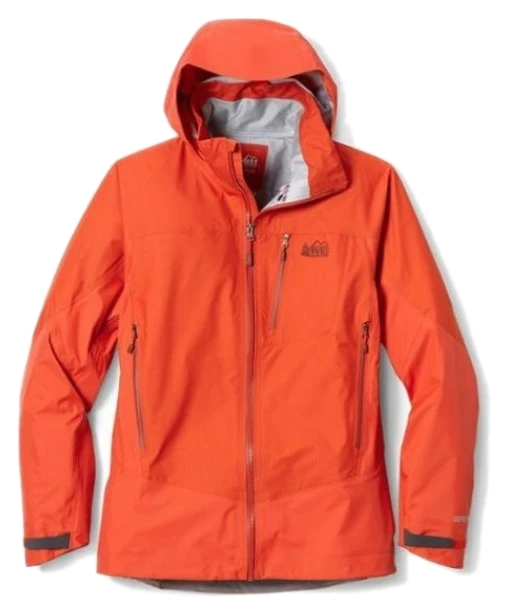
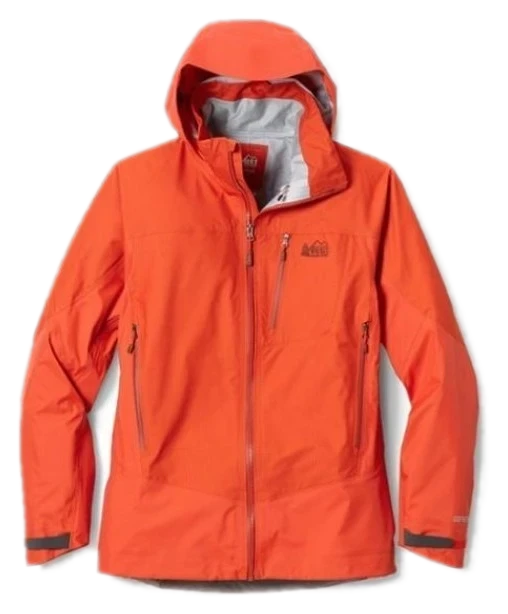
Backpack emoji button, truly uniform button boxes, dark-mode image cleanup
All three top-left buttons are identical fixed-size flex boxes now.
Cleared enclosed white pockets and halo remnants on 7 gear images
(kettle, band, boonie, rain shell, ombraz, sony, thule) so the gear
page works in dark mode without white patches.

diff --git a/map/styles.css b/map/styles.css
@@ -238,52 +238,40 @@ h2 {
   align-items: stretch;
 }
 
-.night-mode-toggle {
+.night-mode-toggle,
+.latest-blog-toggle,
+.gear-toggle {
+  width: 60px;
+  height: 48px;
+  display: flex;
+  align-items: center;
+  justify-content: center;
+  padding: 0;
   background: rgba(44, 62, 80, 0.9);
   color: #fff;
   border: none;
-  padding: 12px 20px;
   border-radius: 25px;
-  font-size: 1rem;
+  font-size: 1.2rem;
   cursor: pointer;
-  z-index: 9999;
   box-shadow: 0 2px 8px rgba(0,0,0,0.2);
   transition: all 0.3s ease;
   backdrop-filter: blur(10px);
+  text-decoration: none;
 }
 
-.night-mode-toggle:hover {
+.night-mode-toggle:hover,
+.latest-blog-toggle:hover,
+.gear-toggle:hover {
   background: rgba(44, 62, 80, 1);
   transform: scale(1.05);
 }
 
 .night-mode-toggle::before {
   content: "🌙";
-  font-size: 1.2em;
 }
 
 .night-mode .night-mode-toggle::before {
   content: "☀";
-}
-
-.latest-blog-toggle {
-  background: rgba(44, 62, 80, 0.9);
-  color: #fff;
-  border: none;
-  padding: 12px 20px;
-  border-radius: 25px;
-  font-size: 1rem;
-  line-height: 25px; /* match the emoji line box of .night-mode-toggle for equal height */
-  cursor: pointer;
-  z-index: 9999;
-  box-shadow: 0 2px 8px rgba(0,0,0,0.2);
-  transition: all 0.3s ease;
-  backdrop-filter: blur(10px);
-}
-
-.latest-blog-toggle:hover {
-  background: rgba(44, 62, 80, 1);
-  transform: scale(1.05);
 }
 
 .latest-blog-toggle svg {
@@ -291,28 +279,6 @@ h2 {
   height: 1.2em;
   vertical-align: middle;
   display: inline-block;
-}
-
-.gear-toggle {
-  background: rgba(44, 62, 80, 0.9);
-  color: #fff;
-  border: none;
-  padding: 12px 20px;
-  border-radius: 25px;
-  font-size: 1rem;
-  line-height: 25px; /* match the emoji line box of .night-mode-toggle for equal height */
-  cursor: pointer;
-  z-index: 9999;
-  box-shadow: 0 2px 8px rgba(0,0,0,0.2);
-  transition: all 0.3s ease;
-  backdrop-filter: blur(10px);
-  text-decoration: none;
-  display: inline-block;
-}
-
-.gear-toggle:hover {
-  background: rgba(44, 62, 80, 1);
-  transform: scale(1.05);
 }
 
 .gear-toggle img {

diff --git a/map/index.html b/map/index.html
@@ -19,9 +19,7 @@
         <line x1="8" y1="16" x2="13" y2="16"></line>
       </svg>
     </button>
-    <a class="gear-toggle" href="gear.html" title="What's in my bag" aria-label="What's in my bag">
-      <img src="images/backpack-icon.png" alt="" width="20" height="20">
-    </a>
+    <a class="gear-toggle" href="gear.html" title="What's in my bag" aria-label="What's in my bag">🎒</a>
   </div>
   
   <canvas id="water-canvas"></canvas>
